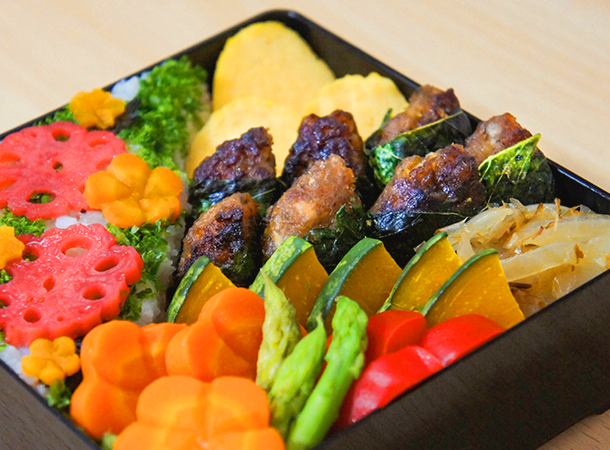
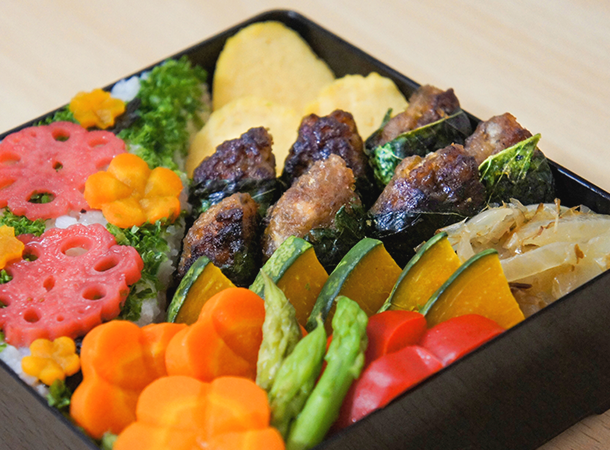
角丸消し

diff --git a/css/style.css b/css/style.css
@@ -365,7 +365,6 @@ h2:after {
   position: relative;
   width: 90%;
   margin: 0 8px 1%;
-  border-radius: 20px;
   background-color: #fff;
   box-shadow: 0 4px 12px rgba(0, 0, 0, .15);
 }
@@ -373,7 +372,6 @@ h2:after {
   width: 100%;
   overflow: hidden;
   margin-bottom: 6%;
-  border-radius: 20px 20px 0 0;
 }
 .lunch-area .img-box-lunch img {
   width: 100%;
